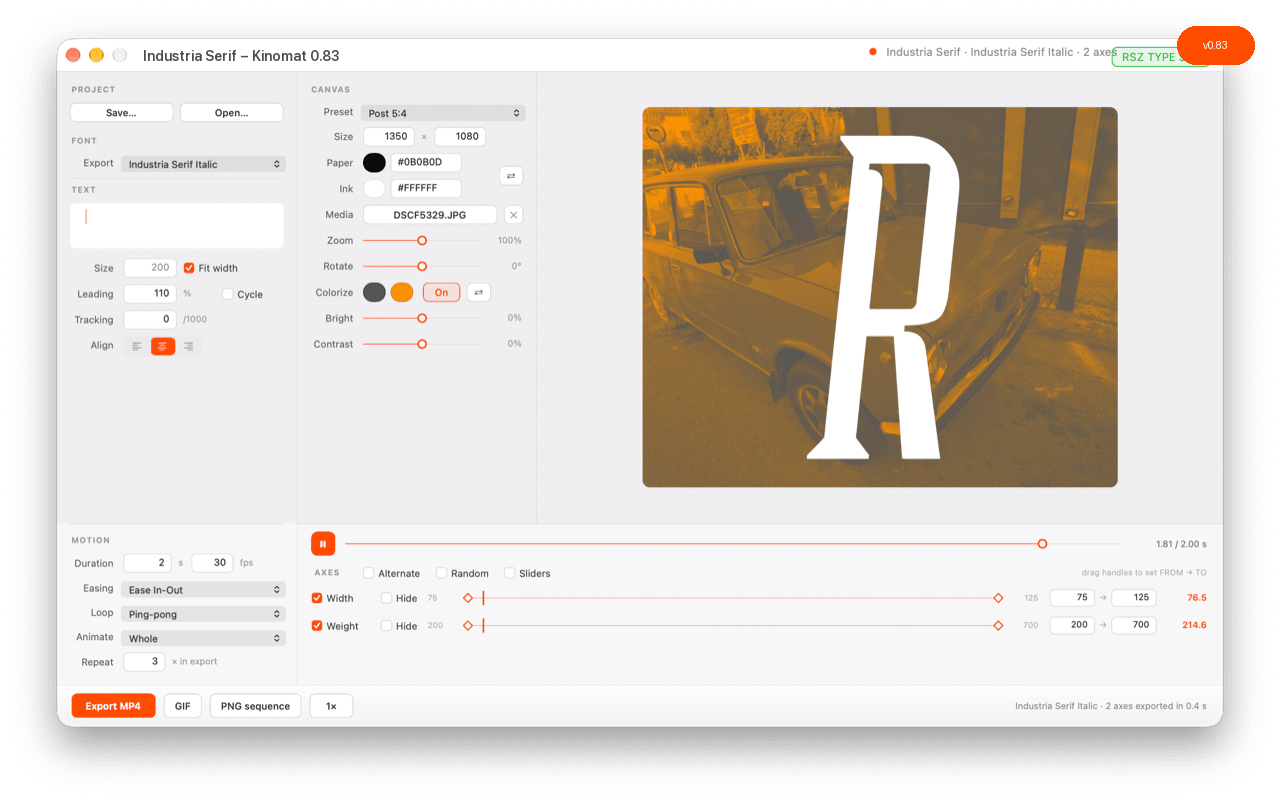
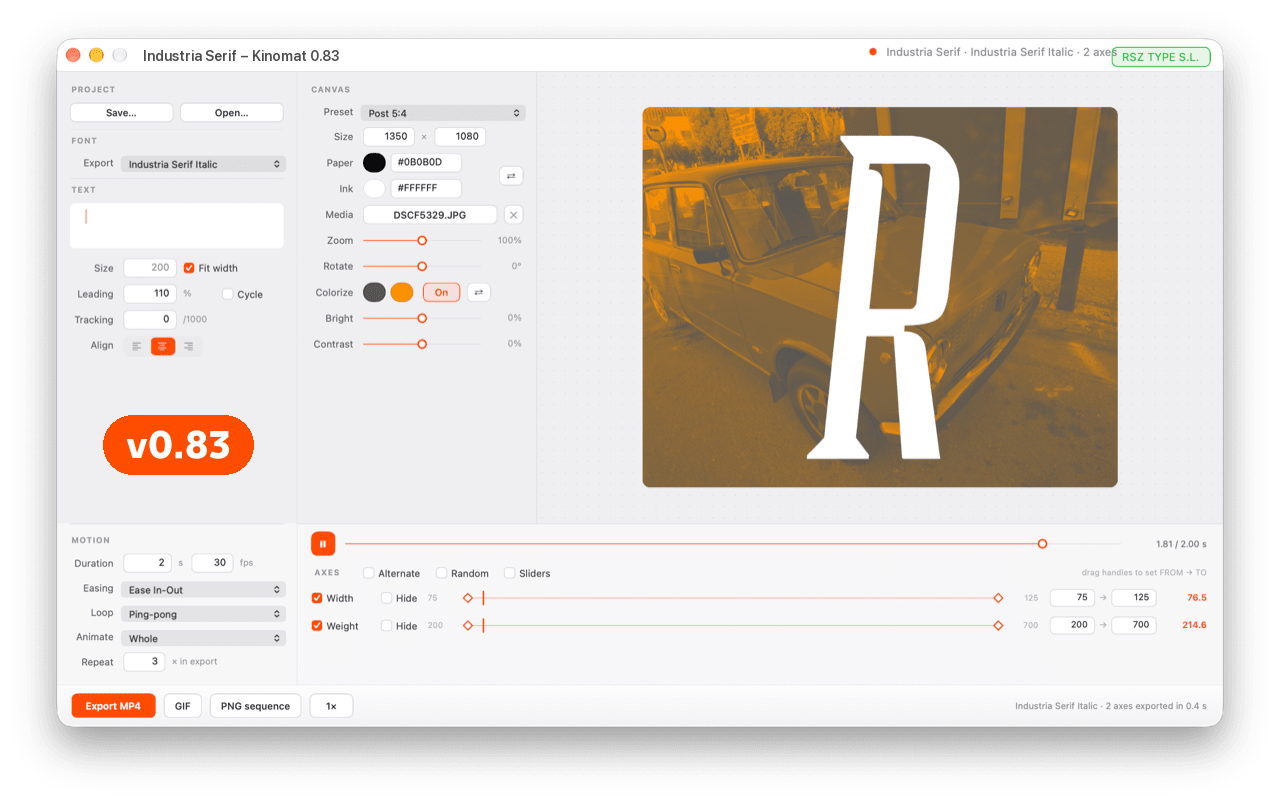
Kinomat: version badge inside the screenshot, larger

Changed region(s): [[0.0625, 0.4988, 0.2188, 0.5923], [0.9062, 0.0312, 1.0, 0.0935]]

diff --git a/Kinomat/version_badge.py b/Kinomat/version_badge.py
@@ -52,19 +52,26 @@ try:
 except OSError:
     pass
 
-size = round(w * 0.034)
-try:
-    font = ImageFont.truetype(FONT, size)
-except OSError:
-    font = ImageFont.load_default()
+# the badge sits inside the window, in the empty space of the left column
+# under Align, big enough to be read in the Plugin Manager's small preview
+AREA = (60, 372, 296, 518)          # left column, below the Text group
+size = round(w * 0.03)
+font = None
+for f in (FONT, "/Library/Fonts/Performa-Bold.otf"):   # the first one that is installed
+    try:
+        font = ImageFont.truetype(f, size); break
+    except OSError:
+        pass
+if font is None:
+    raise SystemExit("No badge font installed: " + FONT)
 box = draw.textbbox((0, 0), label, font=font)
 tw, th = box[2] - box[0], box[3] - box[1]
-padX, padY = round(size * 0.6), round(size * 0.35)
-margin = round(w * 0.02)
-x1, y1 = w - margin, margin
-x0, y0 = x1 - tw - 2 * padX, y1 + 0
-y1 = y0 + th + 2 * padY
-draw.rounded_rectangle((x0, y0, x1, y1), radius=(y1 - y0) // 2, fill=ORANGE + (255,))
+padX, padY = round(size * 0.6), round(size * 0.4)
+bw, bh = tw + 2 * padX, th + 2 * padY
+x0 = (AREA[0] + AREA[2] - bw) // 2
+y0 = (AREA[1] + AREA[3] - bh) // 2
+x1, y1 = x0 + bw, y0 + bh
+draw.rounded_rectangle((x0, y0, x1, y1), radius=bh // 2, fill=ORANGE + (255,))
 draw.text((x0 + padX - box[0], y0 + padY - box[1]), label, font=font, fill=(255, 255, 255, 255))
 image.save(TARGET, optimize=True)
 print("Kinomat.png:", label)
